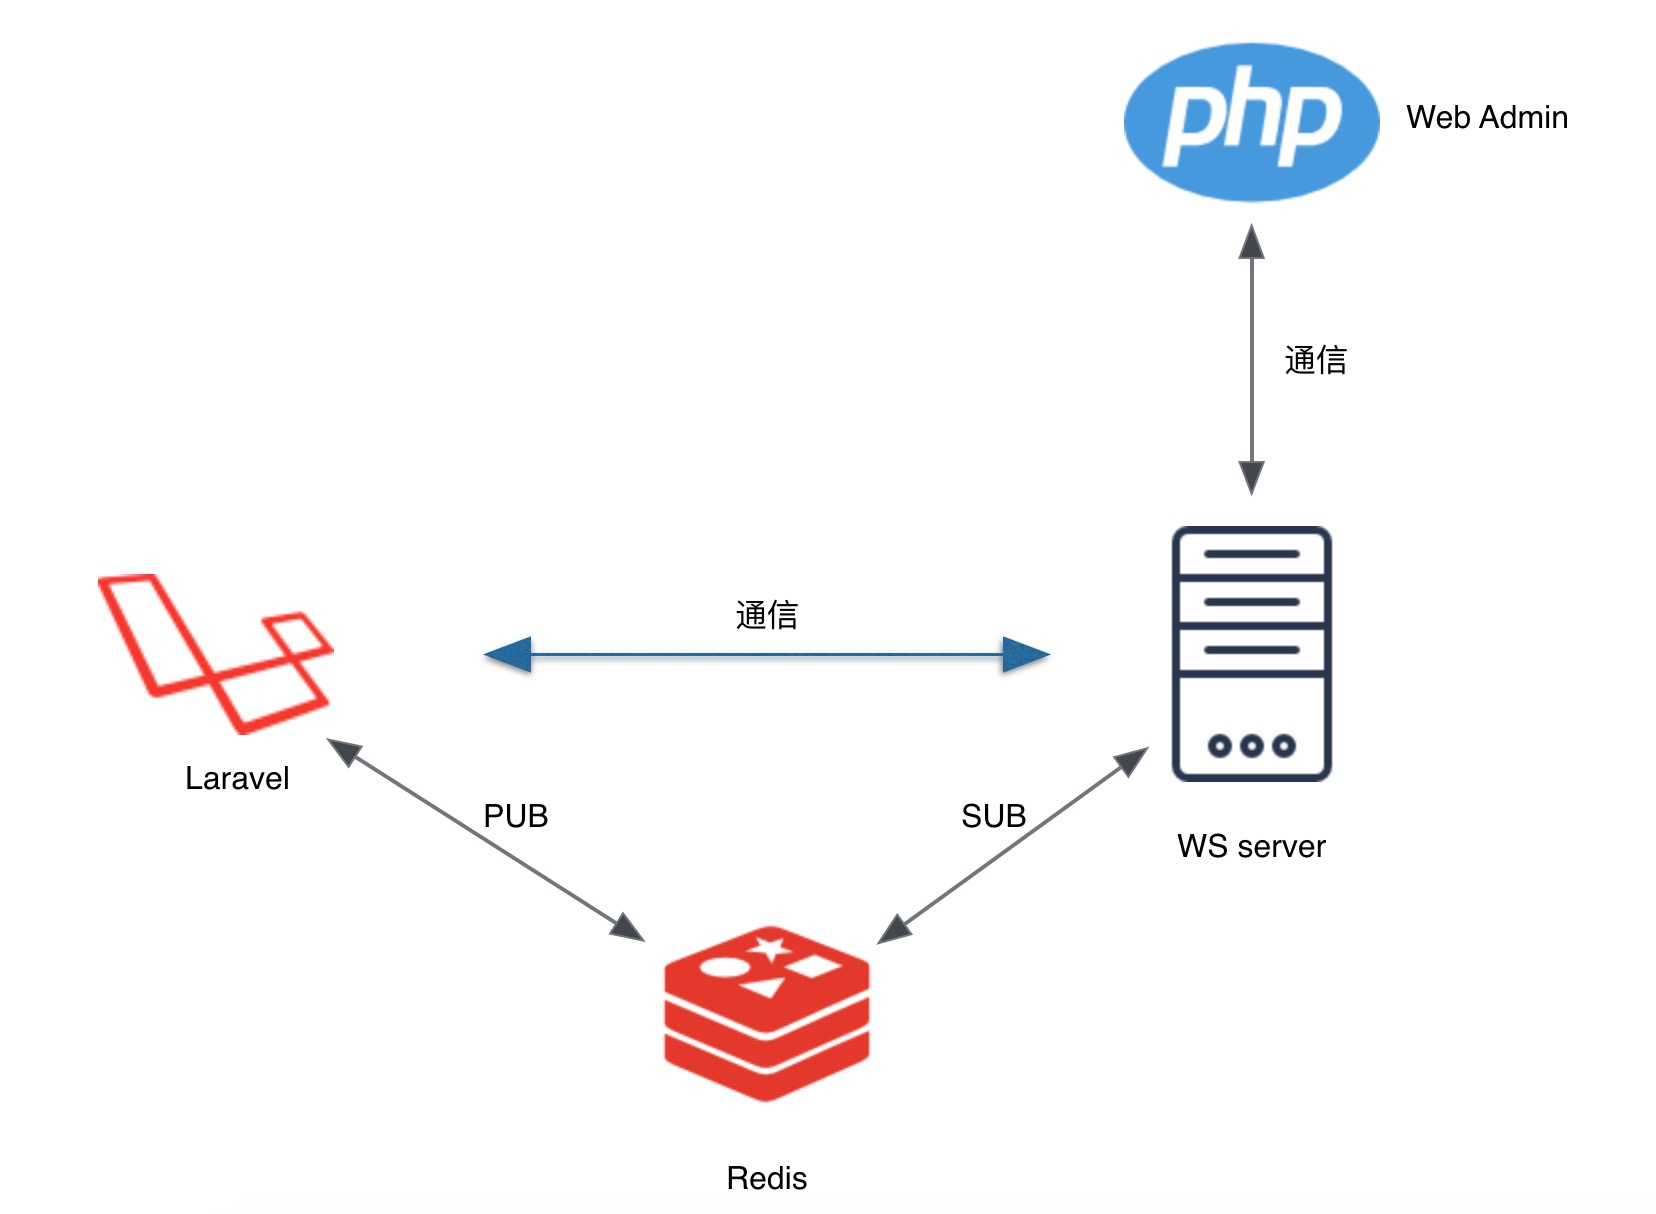
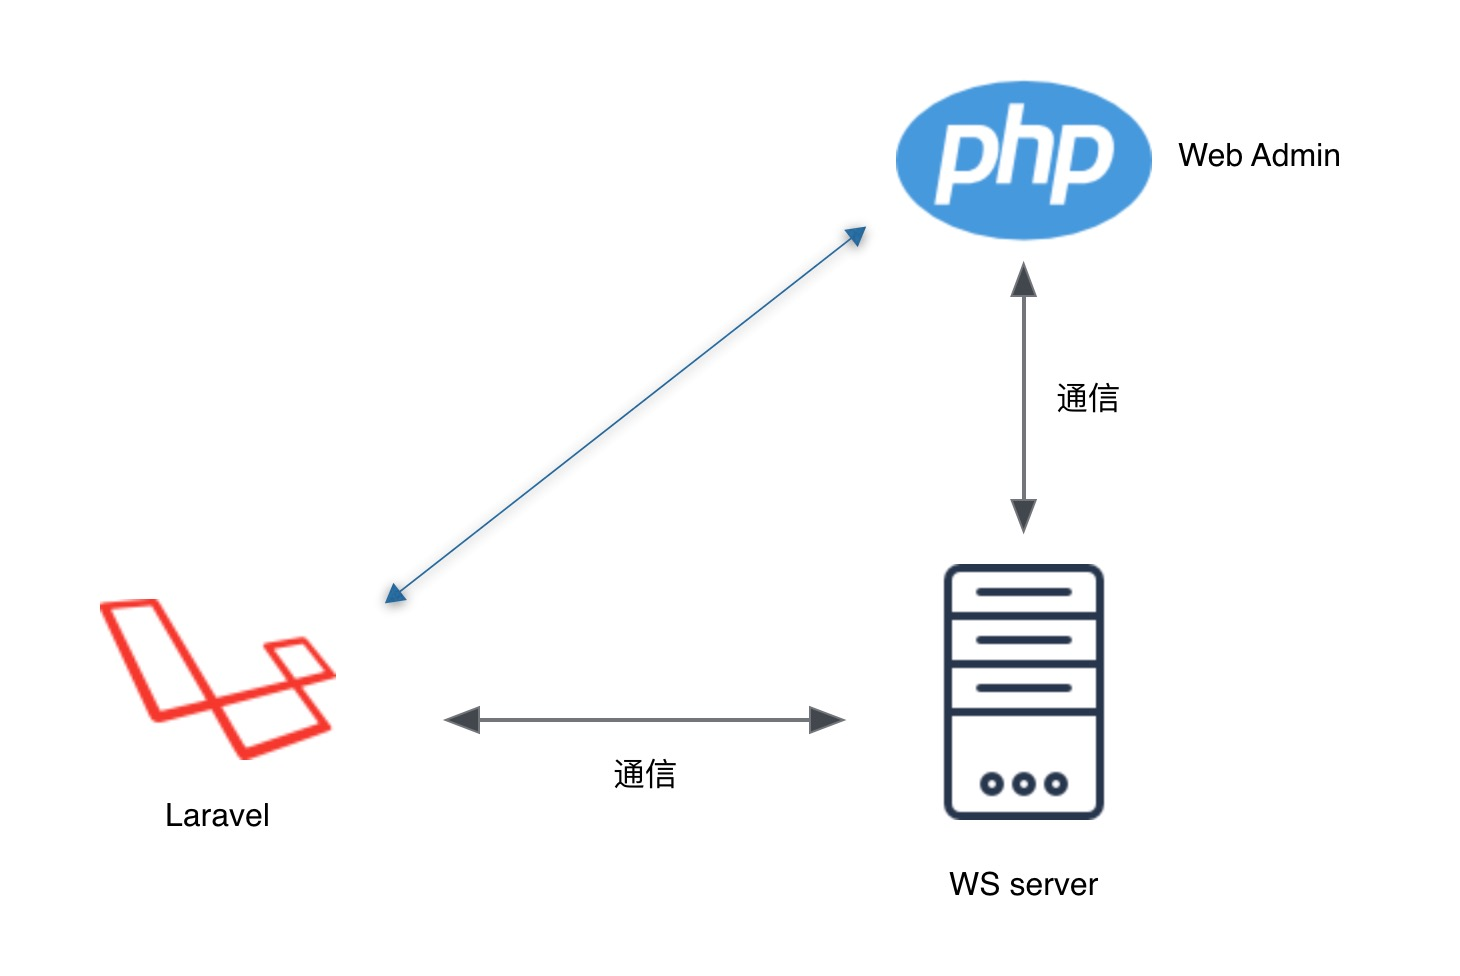
rewrite post
重新写了这篇文章

diff --git a/_posts/2016-03-28-ws-notification.md b/_posts/2016-03-28-ws-notification.md
@@ -1,57 +1,24 @@
 ---
 layout: post
-title: "Laravel中使用Websocket推送通知"
-date:   2016-03-28 10:00:00 +0800
+title: "PHP使用Websocket推送通知"
+date:   2016-04-23 10:00:00 +0800
 categories: web
 ---
 ## 概述
-之前在工作时，对新浪微博的消息通知很感兴趣。然后，自己后来断断续续了解了这一块的相关知识。现在，在使用Laravel搭建后台项目的时候，想到这么个点。就应用了一下。推送技术主要是通过Websocket，来达到客户端和服务器的通信。服务器有消息了，主动发送消息给浏览器，浏览器在接收消息的事件中进行响应处理发送通知。另一个比较重要的点就是，消息一般是我们的应用程序产生的，但是和浏览器通信的是Websocket服务器。应用程序和Websocket服务器之间也需要通信。
+系统开发中，实时消息推送是一个很常见的需求。整体过程而言也没有那么复杂,如果不考虑实时性和性能这些，更简单，客户端轮询服务器的消息表即可。建立Web实时通信和传统通信不同的是，因为浏览器和http服务器之间不能进行双向通信，所以需要借助Websocket这么一个桥梁来连接两者。用户的应用产生消息之后，首先发送给Websocket服务器，Websocket服务器收到消息，再发送给已经建立连接的客户端。
 
-应用程序和Websocket服务器通信使用的是Redis的PUB/SUB功能。PUB/SUB，即发布/订阅。消费者订阅一定的频道，然后发布者有消息时，发布消息到指定的频道上，对应订阅该频道的消费者即可接收到发布的消息。
-
-最后，整个大致流程图如下
+大致过程如下：
 
 ![ws]({{ site.url }}/assert/imgs/ws_push_main.png)
 
 整个过程可以简化为:
 
 * 前端页面初始化，连接到Websocket服务器
-* Websocket服务器在接受连接时，根据连接的用户订阅指定的频道，例如{user:123}
-* 应用程序产生通知，发布消息到{user:123}频道
-* Websocket服务器接收到订阅的消息通知，推送给浏览器
-* 浏览器接收到通知，进行处理
+* 应用程序产生通知，连接Websocket服务器，发送消息
+* Websocket服务器接收到应用程序发送的消息，转发给浏览器
+* 浏览器接收到通知，进行页面响应
 
 ## 推送Demo
-
-### Redis
-
-[Redis](http://redis.io/) 是一个开源（BSD许可）的，内存中的数据结构存储系统，它可以用作数据库、缓存和消息中间件。内置了丰富的数据结构和方便的功能操作。
-
-Redis的PUB/SUB功能:
-
-> SUB/PUB
->
-> Client1: SUBCRIBE TEST  # 订阅频道
->
-> Client2: PUBLISH TEST "hello redis"  # 发布消息到频道
-
-测试如下:
-
-![redi]({{ site.url }}/assert/imgs/redis_subpub.png)
-
-### Laravel发布通知
-Laravel应用需要首先安装Predis包：
-{% highlight shell %}
-$ composer require predis/predis
-{% endhighlight %}
-后台消息部分，这里随机一个0-10的数字，然后发布到Redis频道
-{% highlight php %}
-<?php
-// ...
-$cnt = rand(0,10);
-Redis::publish('push:message:1', json_encode(['cnt' => $cnt], JSON_UNESCAPED_UNICODE));
-// ...
-{% endhighlight %}
 
 ### Websocket服务器
 
@@ -60,74 +27,42 @@ Redis::publish('push:message:1', json_encode(['cnt' => $cnt], JSON_UNESCAPED_UNI
 {% highlight shell %}
 $ php artisan make:command SwooleServer
 {% endhighlight %}
-Swoole服务器在启动时，监听客户端的连接事件，客户端连接时，订阅对应频道消息：
+服务器端值得注意的是，需要用到一个全局的数据结构来管理用户，和用户的连接，当用户刷新浏览器之后，需要更新一下用户key绑定的连接符。这样，当消息再次到达时，能够准确的发送出去。
 {% highlight php %}
 <?php
 
-namespace App\Console\Commands;
+$server = new Server('0.0.0.0', 9501);
 
-use Illuminate\Console\Command;
-use Illuminate\Support\Facades\Redis;
-use Swoole\Websocket\Server;
+$table = new Table(1024);
+$table->column('uid', Table::TYPE_INT);
+$table->column('fd', Table::TYPE_INT);
+$table->create();
 
-class SwooleServer extends Command
-{
-    /**
-     * The name and signature of the console command.
-     *
-     * @var string
-     */
-    protected $signature = 'swoole:server';
+$server->table = $table;
 
-    /**
-     * The console command description.
-     *
-     * @var string
-     */
-    protected $description = 'websocket server using swoole';
-
-    /**
-     * Create a new command instance.
-     *
-     * @return void
-     */
-    public function __construct()
-    {
-        parent::__construct();
+$server->on('open', function (Server $server, $request){
+    echo "connected\n";
+    if (isset($request->get['uid'])) {
+        $uid = $request->get['uid'];
+        $server->table->set($uid, ['uid' => $uid, 'fd' => $request->fd]);
     }
+});
 
-    /**
-     * Execute the console command.
-     *
-     * @return mixed
-     */
-    public function handle()
-    {
-        // start a server
-        $server = new Server('0.0.0.0', 9501);
-
-        $server->on('open', function (Server $server, $request){
-            $uid = $request->fd;
-            //subscribe messages from redis
-            Redis::subscribe(['push:message:1'], function($message) use($server, $uid) {
-                echo "notify: ".$message."\n";
-                $server->push($uid, $message);
-            });
-        });
-
-        $server->on('message', function(Server $server, $frame) {
-            echo "received from {$frame->fd}:{$frame->data}\n";
-            $server->push($frame->fd, 'welcome, i heard you.');
-        });
-
-        $server->on('close', function($ser, $fd){
-            echo "client {$fd} closed\n";
-        });
-
-        $server->start();
-
+$server->on('message', function(Server $server, $frame) {
+    echo "received from {$frame->fd}:{$frame->data}\n";
+    $msg = json_decode($frame->data, true);
+    $user = $server->table->get($msg['user_id']);
+    if ($user) {
+        $server->push($user['fd'], $frame->data);
     }
-}
+});
+
+$server->on('close', function($server, $fd){
+    echo "client {$fd} closed\n";
+    $server->table->del($this->user);
+});
+
+$server->start();
 {% endhighlight %}
 
 ### 客户端
@@ -153,17 +88,23 @@ socket.onclose = function(event) {
 }
 {% endhighlight %}
 
+### PHP应用程序
+
+PHP应用程序产生消息之后，需要发送给Websocket服务器。这里说个插曲，之前关于这块，看的是网上的例子，使用Redis来连接应用程序和WS服务器通信。但是他们的WS服务器使用的是Node。我在使用Redis和Swoole这个干时，错误了。因为Redis的订阅操作是阻塞的，所以Swoole不能这么干。
+
+PHP发送消息需要用到PHP的Websocket客户端库来连接，发送消息。有些实现很简单，这里我使用的是这个库[websocket-php](https://github.com/Textalk/websocket-php)。发送消息代码：
+
+{% highlight php %}
+<?php
+$cli = new WebsocketClient('ws://localhost:9501');
+if (!$cli) {echo 'Connect Error!';exit;}
+$cli->send(json_encode($msg->toArray(), JSON_UNESCAPED_UNICODE));
+{% endhighlight %}
+
 ### Demo展示
 
-下面是最终的效果。点击发送时，系统生成0-10的随机数，然后发送到Redis，最后通过Websocket服务器通知客户端。更新右上角的数字。
-
-![push_demo]({{ site.url }}/assert/imgs/push_demo.png)
+略
 
 ## 最后
 
-这里，做到这里就实现了一个基本的Demo了。但是实际的应用中，还是远远不够的。对比微博的功能，应该能够实现消息通知之后，如果用户没有查看的话，应该能够在下次登录时继续显示，等。还得慢慢学习了。
-
-## 参考资料
-
-* [Laravel Redis](https://laravel.com/docs/5.2/redis)
-* [在 laravel 5 實作瀏覽器推播通知](http://jigsawye.com/2015/12/22/push-notification-to-user-in-laravel-5/)
+在折腾完整个过程之后，深刻的理解到，整个东西其实并不是很复杂。需要捋清楚整个两端过程。
